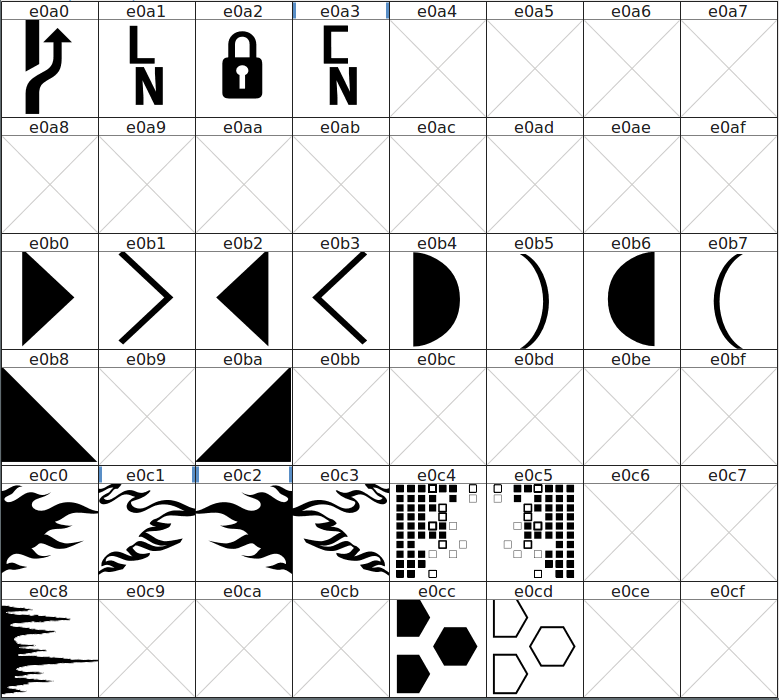
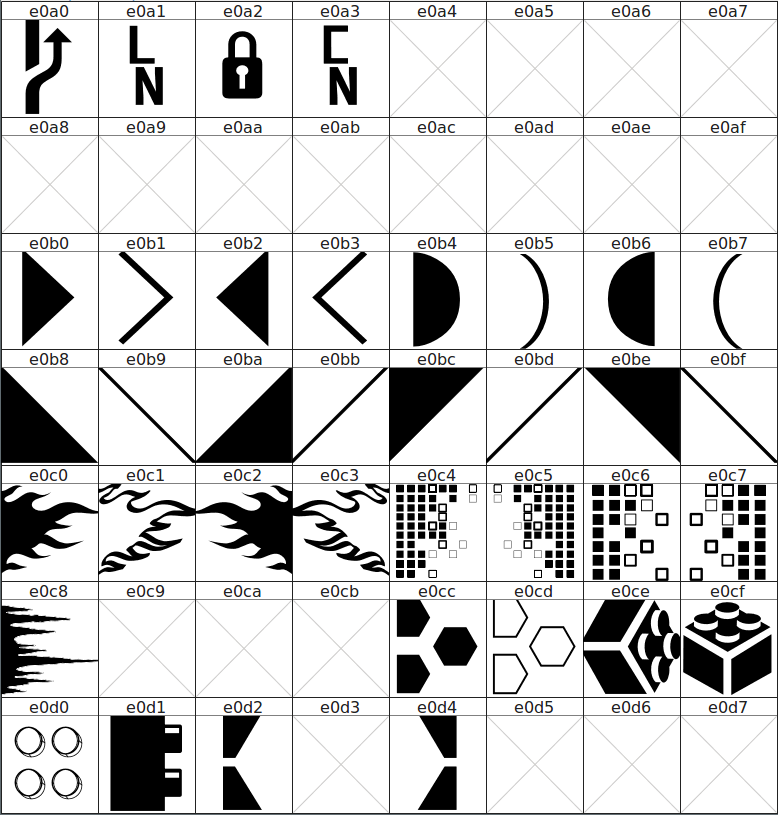
Updated readme and images to reflect new glyphs

diff --git a/README.md b/README.md
@@ -1,14 +1,10 @@
 # Powerline Extra Symbols
 
-_NOTE: This repo will soon probably just hold the glyphs. The patched fonts will eventually be available in [ryanoasis/font-nerd-icons](https://github.com/ryanoasis/font-nerd-icons)_
-
 Extra glyphs for your powerline separators (work in progress)
 
 ![preview](preview.png)
 
-Attempt at an abstract pixelated faded effect (blocks probably need to be larger):
-
-![preview](preview-2.png)
+_NOTE: This repo will soon probably just hold the glyphs. The patched fonts will eventually be available in [ryanoasis/font-nerd-icons](https://github.com/ryanoasis/font-nerd-icons)_
 
 Vim preview also showing column number glyph:
 
